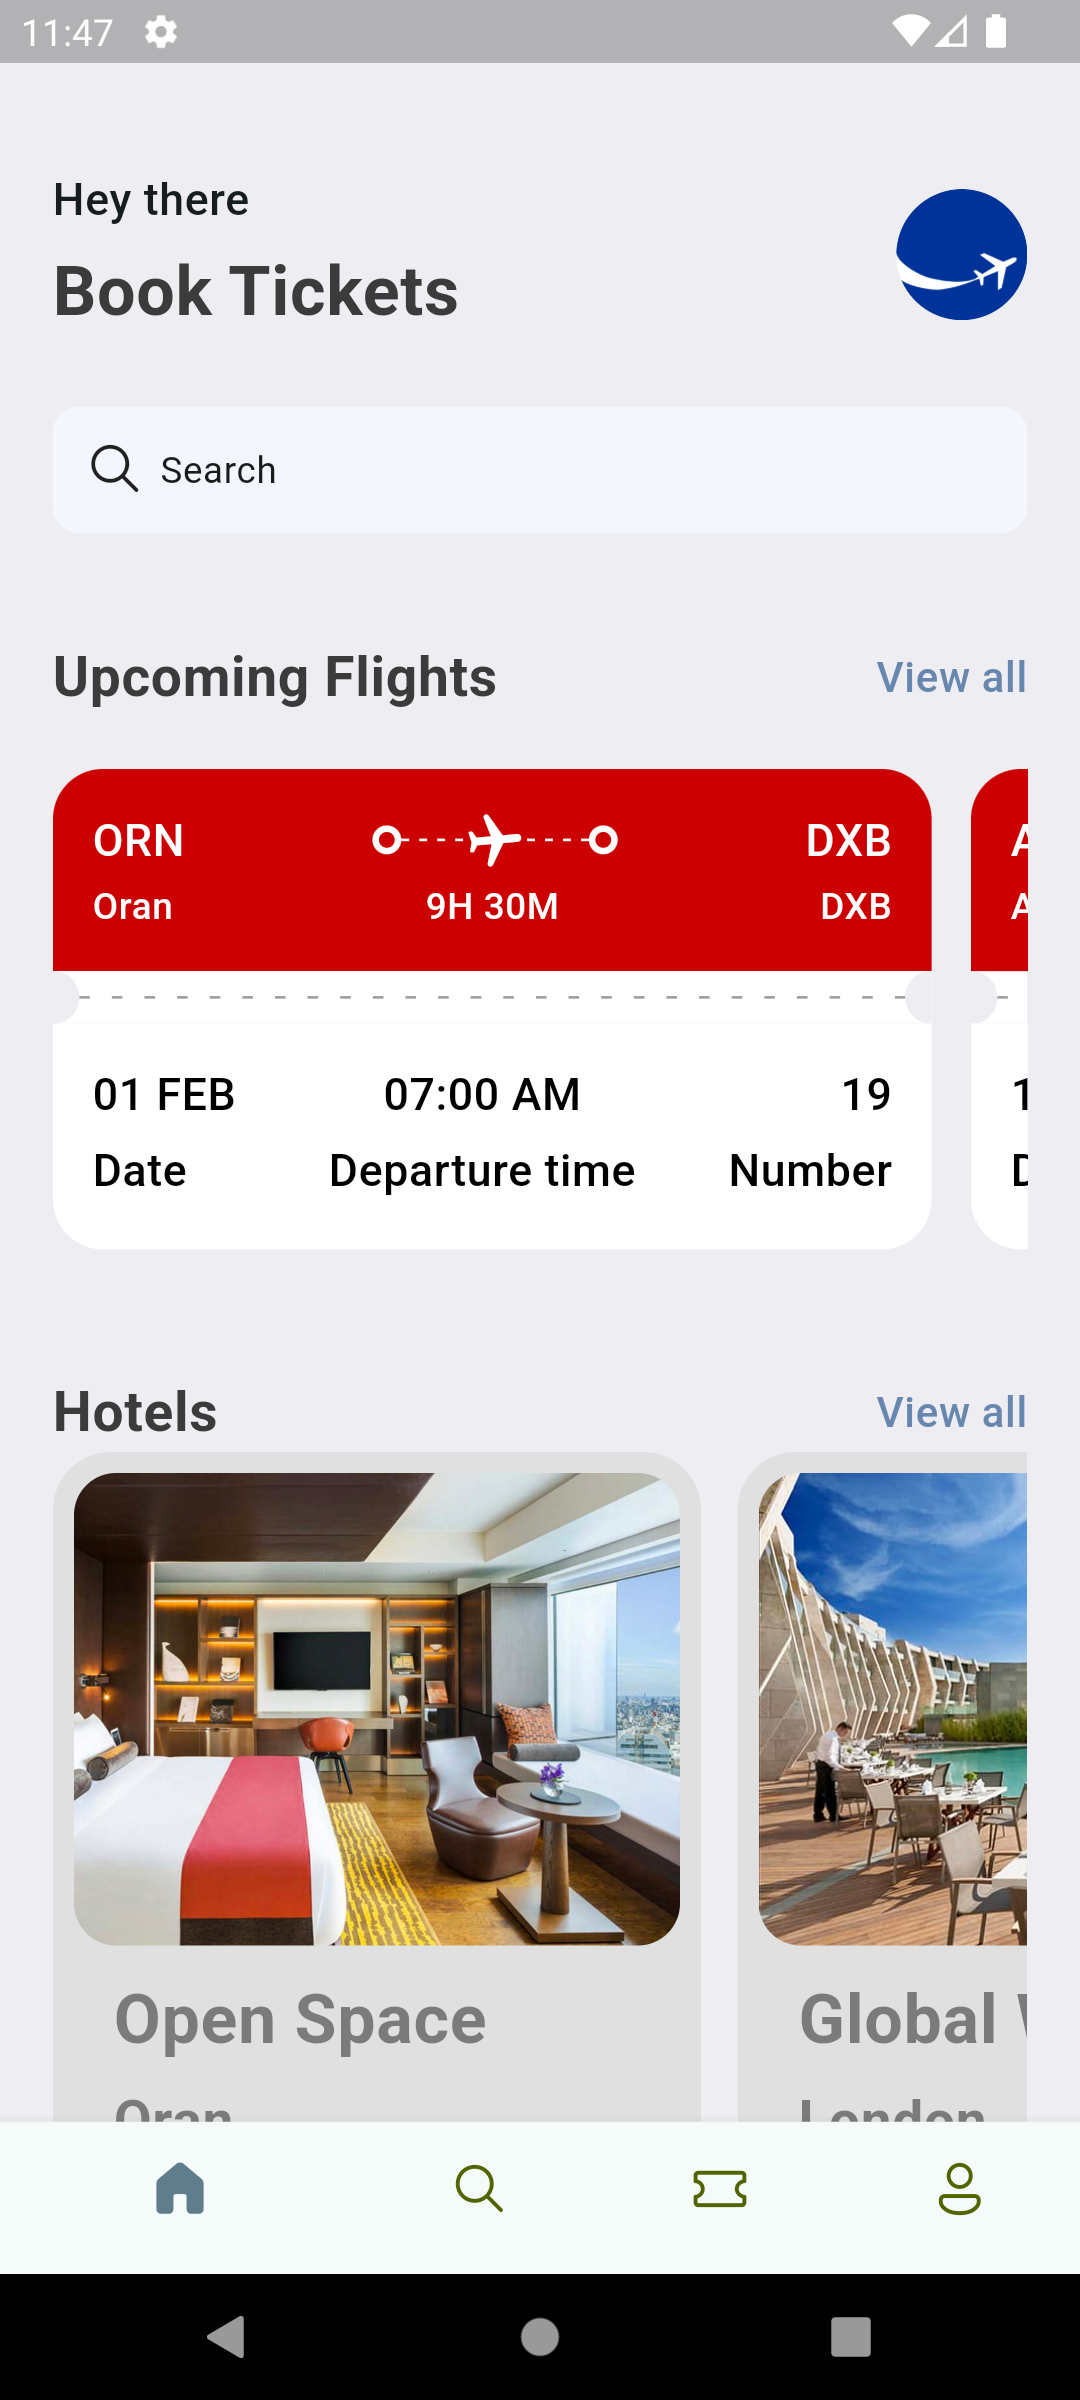
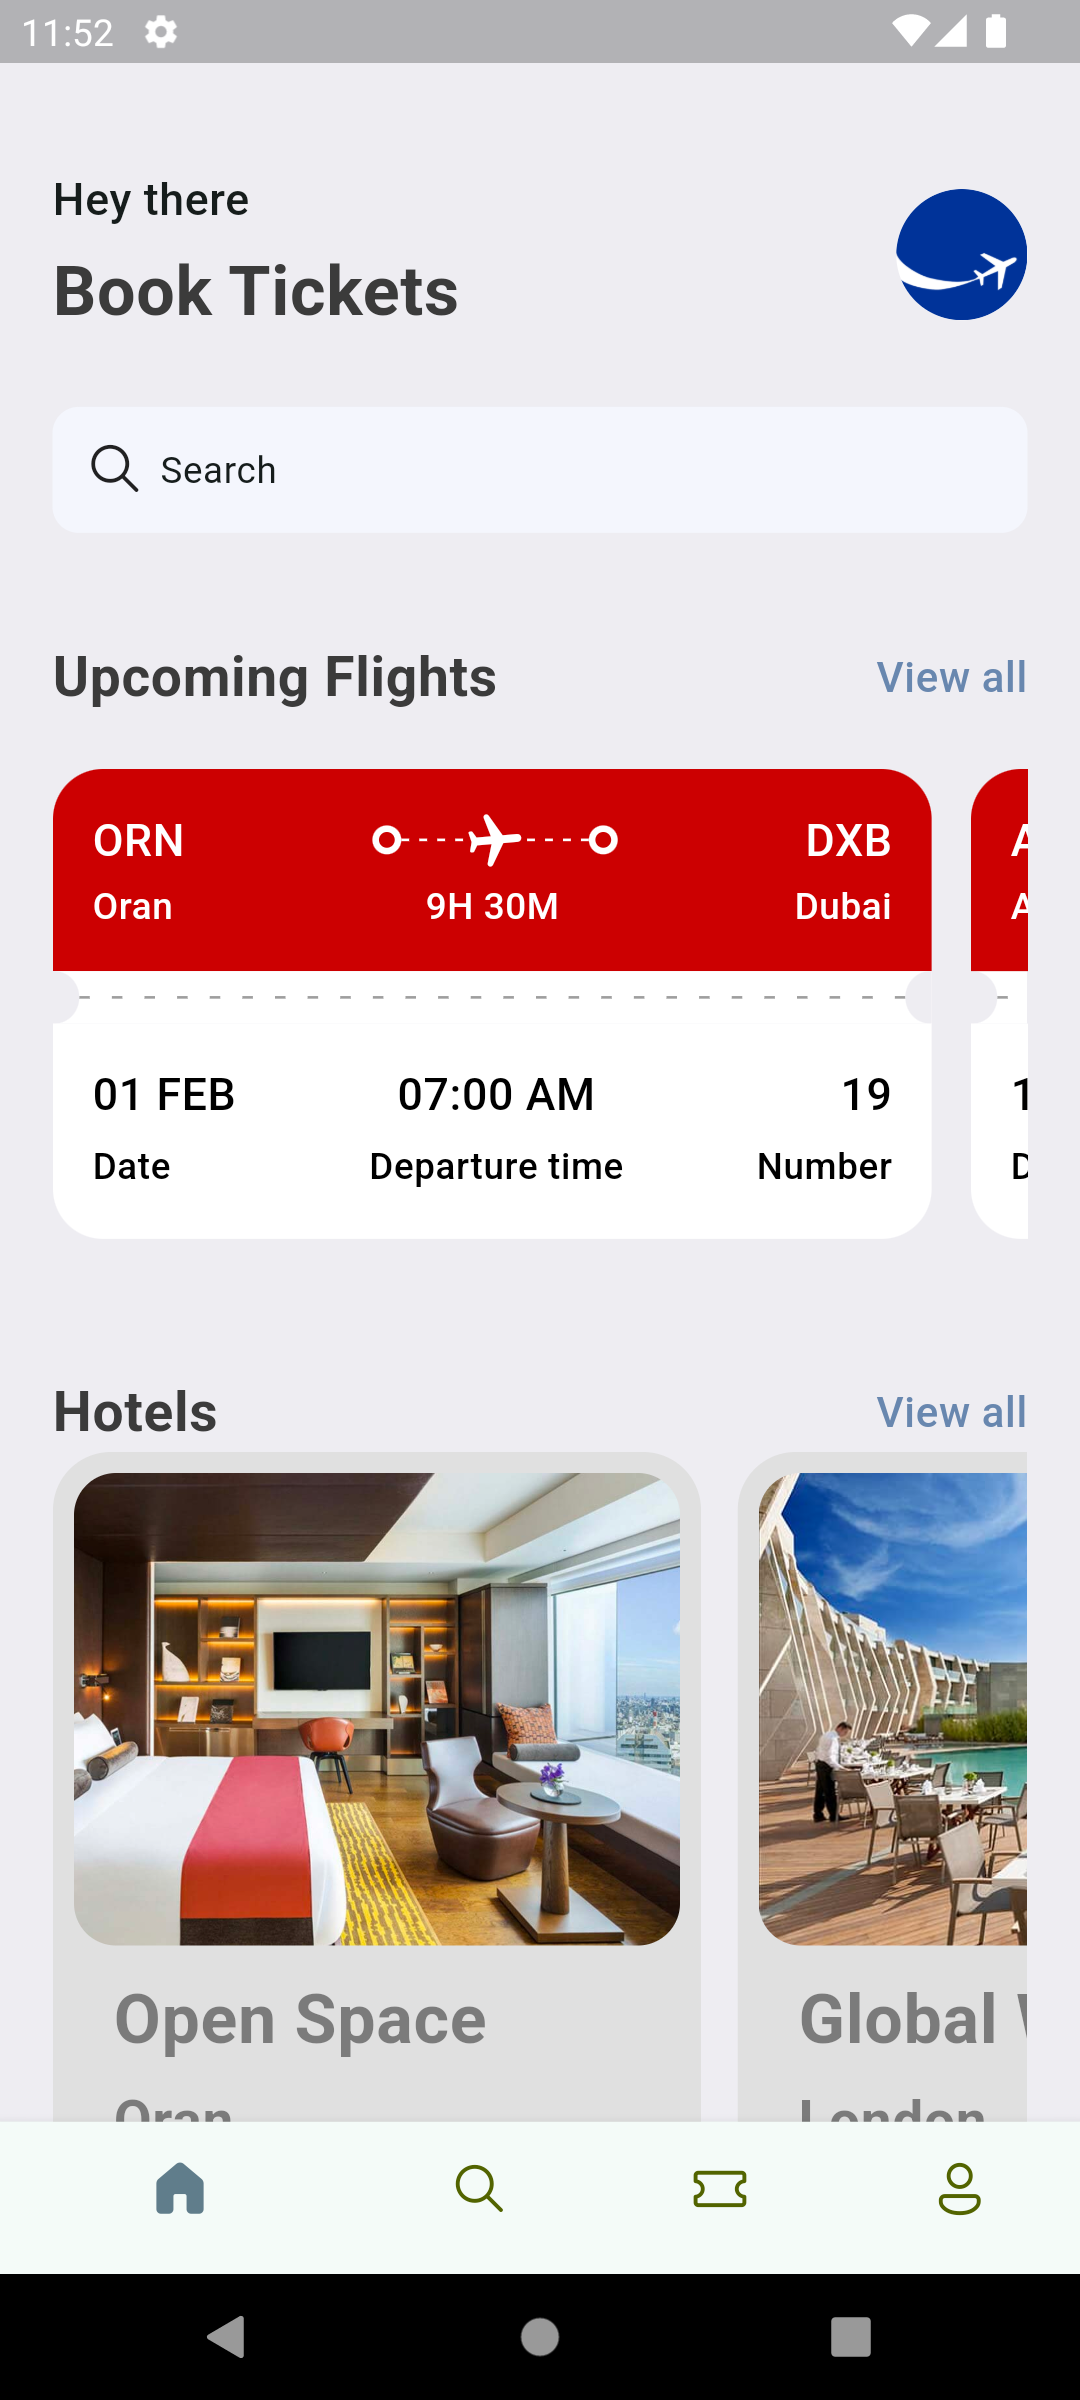
feat: replace StyledTextHeadlineThree with StyledTextHeadlineFour in AppColumnTextLayout

diff --git a/lib/core/widgets/app_column_text_layout.dart b/lib/core/widgets/app_column_text_layout.dart
@@ -1,3 +1,4 @@
+import 'package:flightbookapp/core/widgets/styled_text_headline_four.dart';
 import 'package:flightbookapp/core/widgets/styled_text_headline_three.dart';
 import 'package:flutter/material.dart';
 
@@ -20,7 +21,7 @@ class AppColumnTextLayout extends StatelessWidget {
         SizedBox(
           height: 5,
         ),
-        StyledTextHeadlineThree(text: bottomText, color: Colors.black)
+        StyledTextHeadlineFour(text: bottomText, color: Colors.black)
       ],
     );
   }
